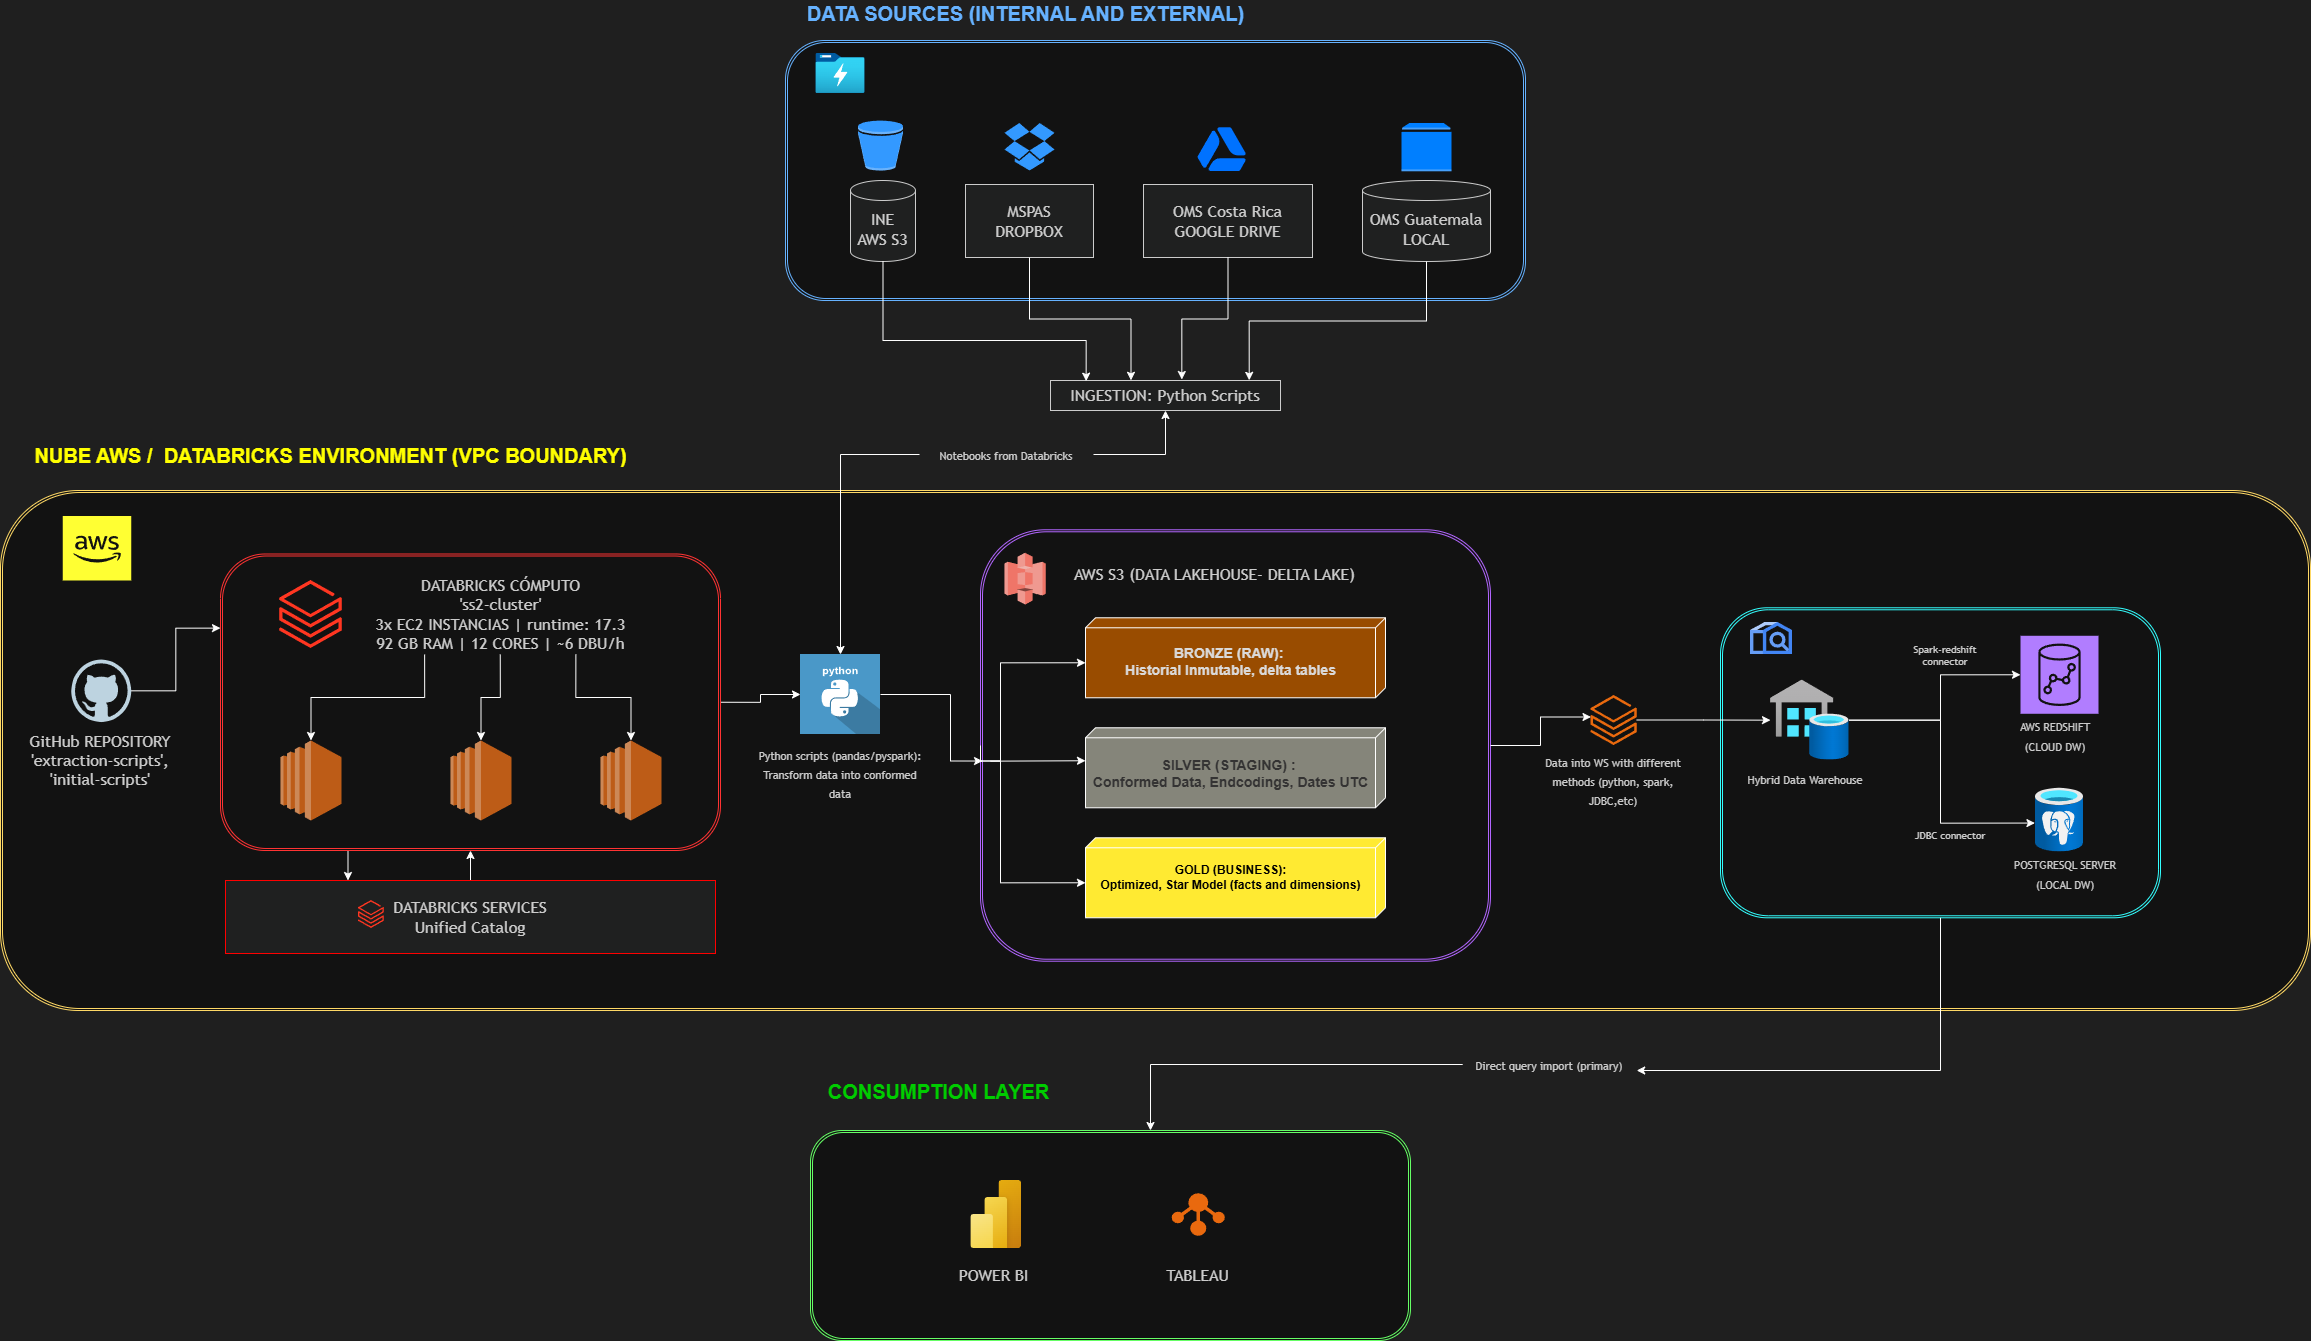
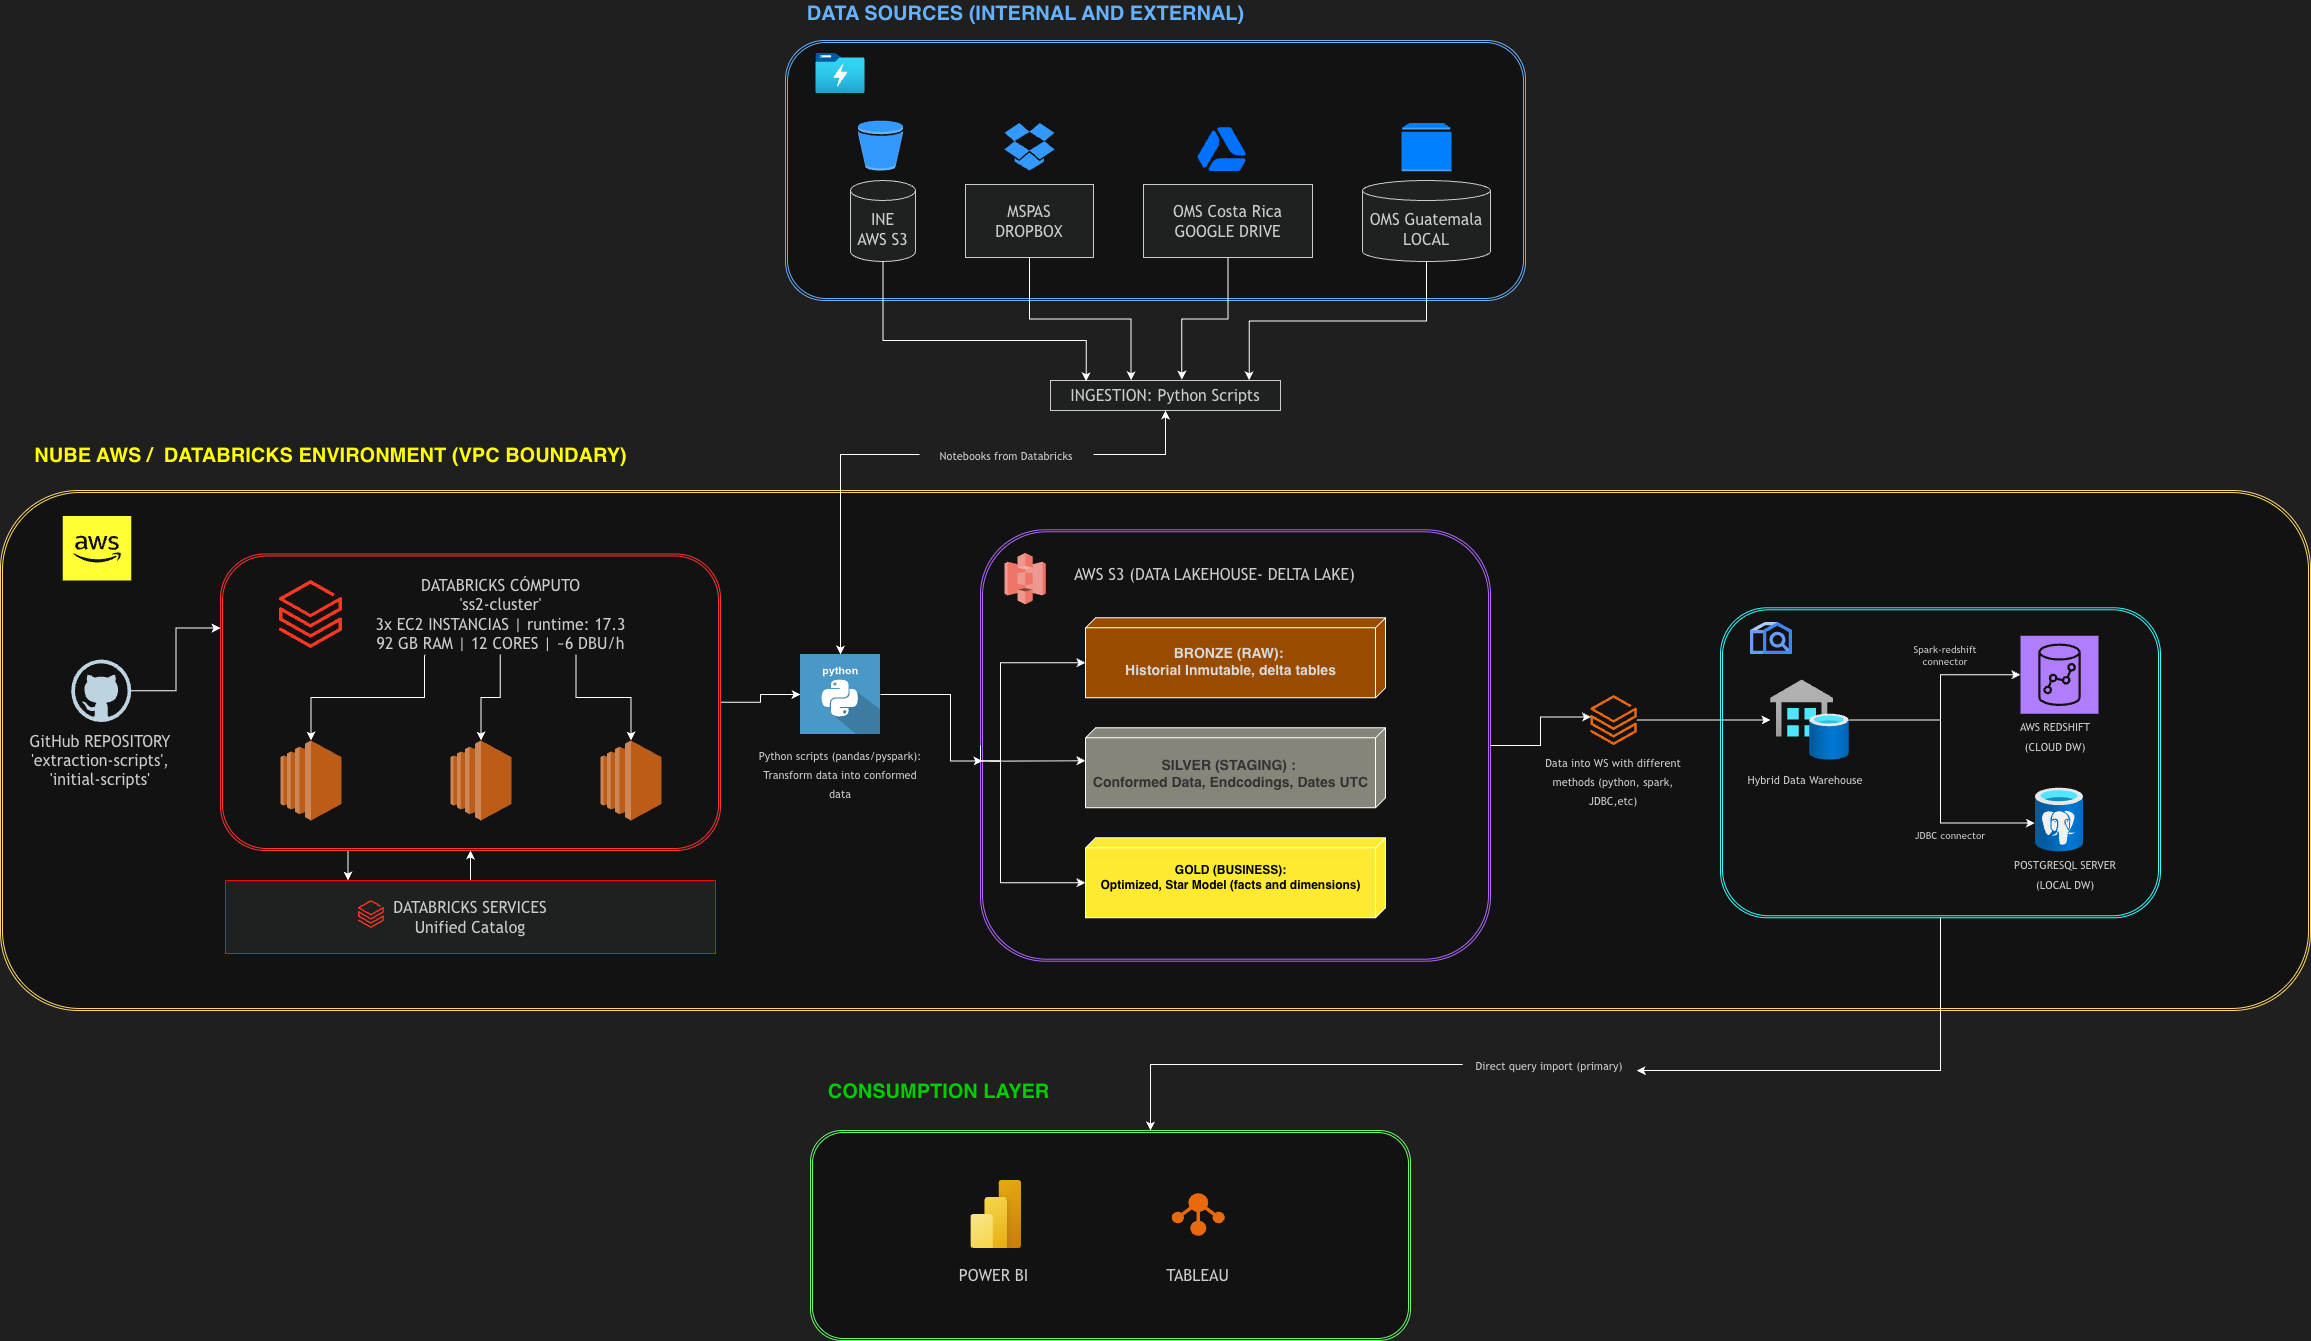
fix: missing updated architecture siagram for phase 2

diff --git a/docs/fase2/arquitectura.md b/docs/fase2/arquitectura.md
@@ -25,14 +25,17 @@ gold_ss2 (Delta, Unity Catalog)                 ← Gold: star schema
                     + demo-read script          ← evidencia de lectura
 ```
 
-!!! info "Decisión de arquitectura"
-    Databricks/Unity Catalog actúa como el **DW en la nube** — no se
-    introduce un Redshift adicional, a diferencia de lo planteado
-    originalmente en Fase 1. El **DW local** es PostgreSQL corriendo en
-    Docker, cargado desde un script Python local (no JDBC desde
-    Databricks: Databricks corre en AWS y no tiene visibilidad de
-    `localhost`). La orquestación completa corre en **Databricks
-    Workflows** — no se usan GitHub/GitLab Actions para los jobs de datos.
+## Decisión de arquitectura
+
+![Diagrama de arquitectura](assets/arquitectura_updated.png)
+
+Databricks/Unity Catalog actúa como el **DW en la nube** — no se
+introduce un Redshift adicional, a diferencia de lo planteado
+originalmente en Fase 1. El **DW local** es PostgreSQL corriendo en
+Docker, cargado desde un script Python local (no JDBC desde
+Databricks: Databricks corre en AWS y no tiene visibilidad de
+`localhost`). La orquestación completa corre en **Databricks
+Workflows** — no se usan GitHub/GitLab Actions para los jobs de datos.
 
 ## Diagrama de Despliegue
 